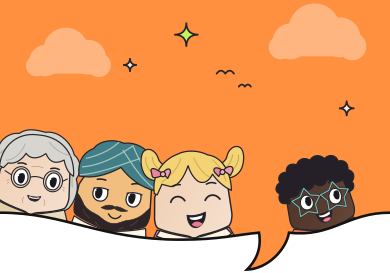
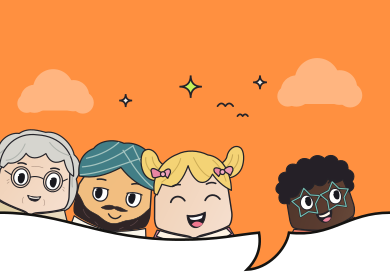
fix(payments): plan screen art crops only its empty sky on short screens (K3)

diff --git a/app/screens/Payments/PlanOffer.tsx b/app/screens/Payments/PlanOffer.tsx
@@ -60,8 +60,9 @@ export const PlanOffer: React.FC<PlanOfferProps> = ({
   const [roomH, setRoomH] = useState(0);
   const [headH, setHeadH] = useState(0);
   const fullH = width / SCENE_RATIO;
-  // The faces and the edge sit in the bottom 45% of the art.
-  const minH = fullH * 0.45;
+  // The top 22% of the art is empty sky (clouds and faces sit below it), so
+  // that is all a short screen may crop. Past that, the top area scrolls.
+  const minH = fullH * 0.78;
   const sceneH =
     roomH > 0 && headH > 0 ? Math.min(fullH, Math.max(minH, roomH - headH)) : fullH;
   const onGround = colors.premium.onGround;
